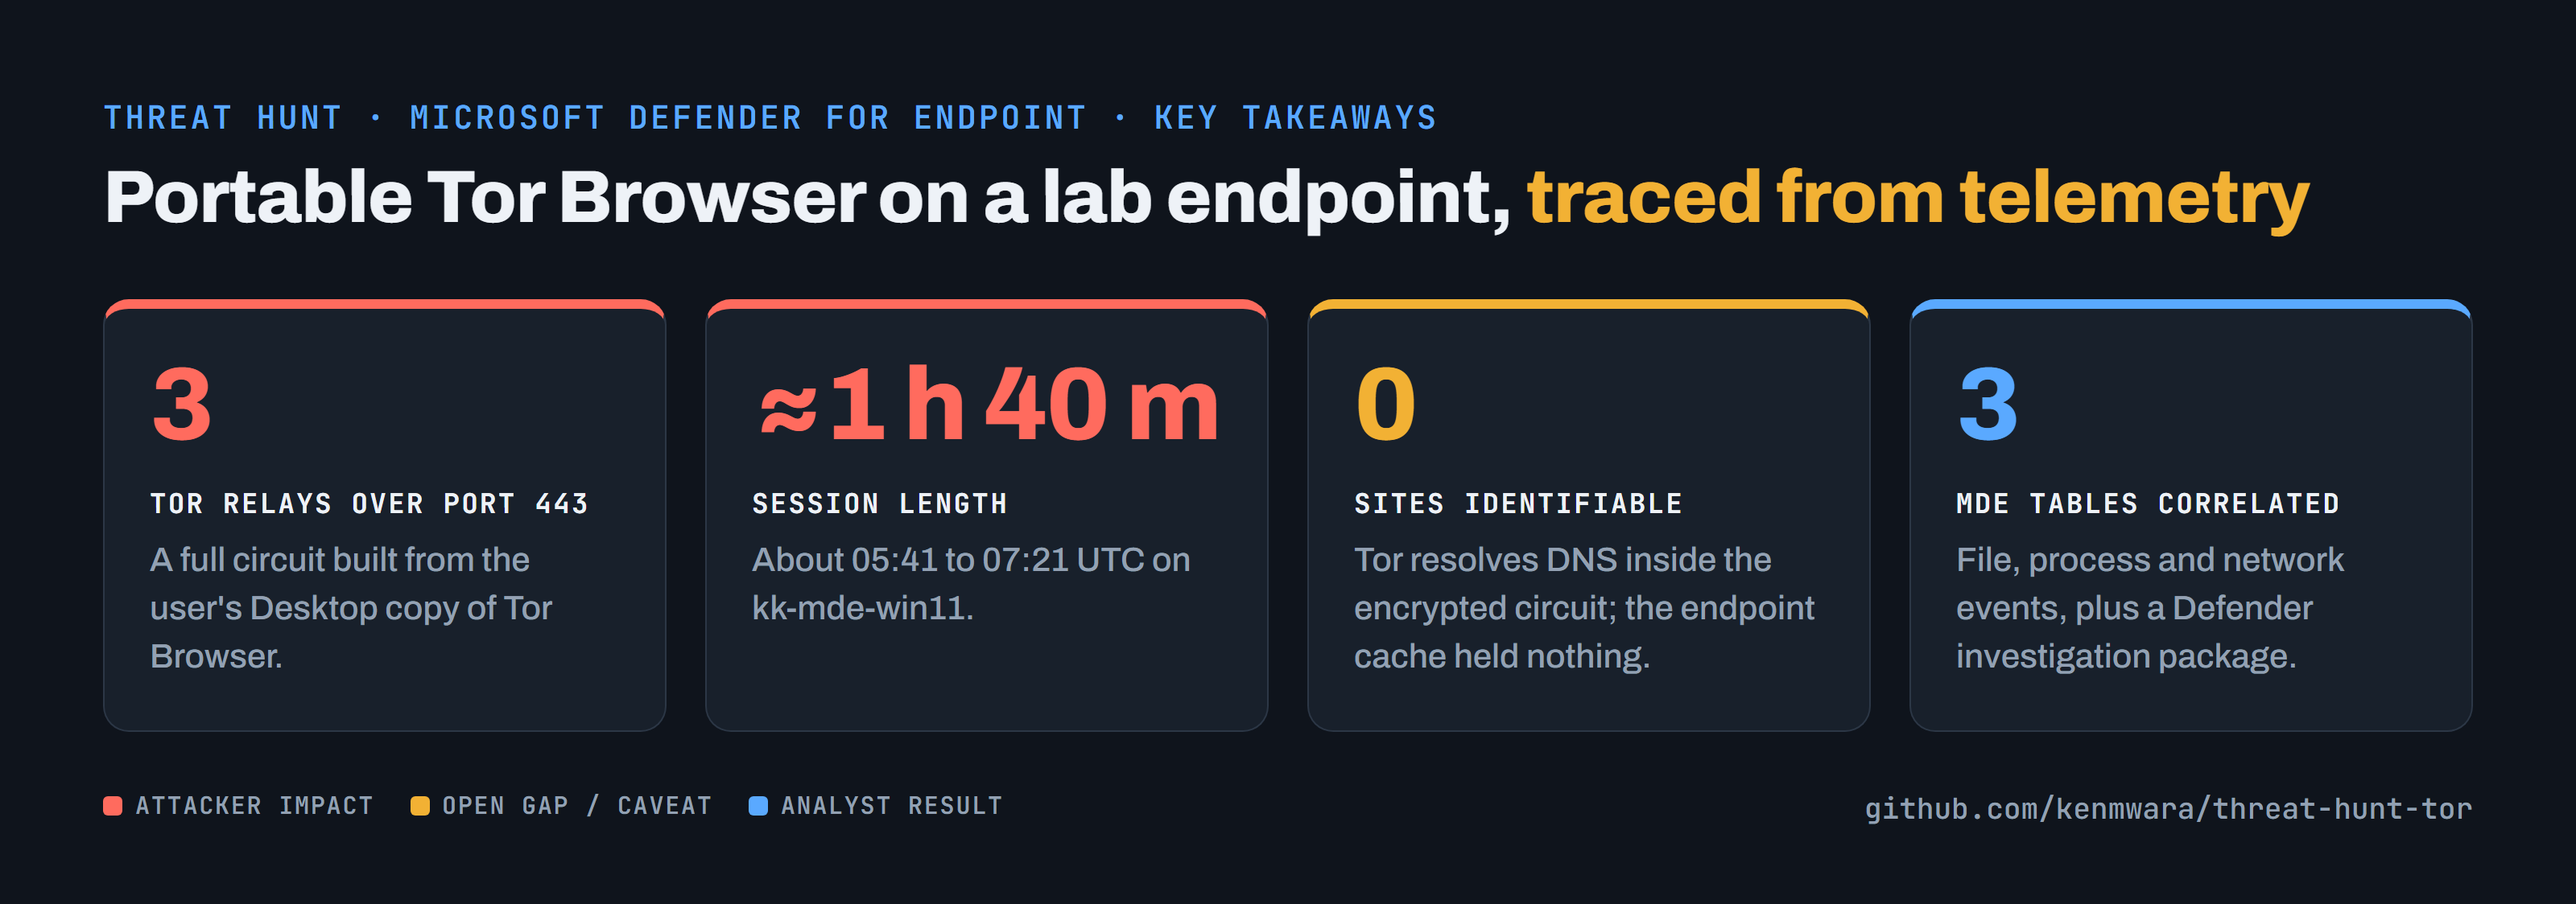
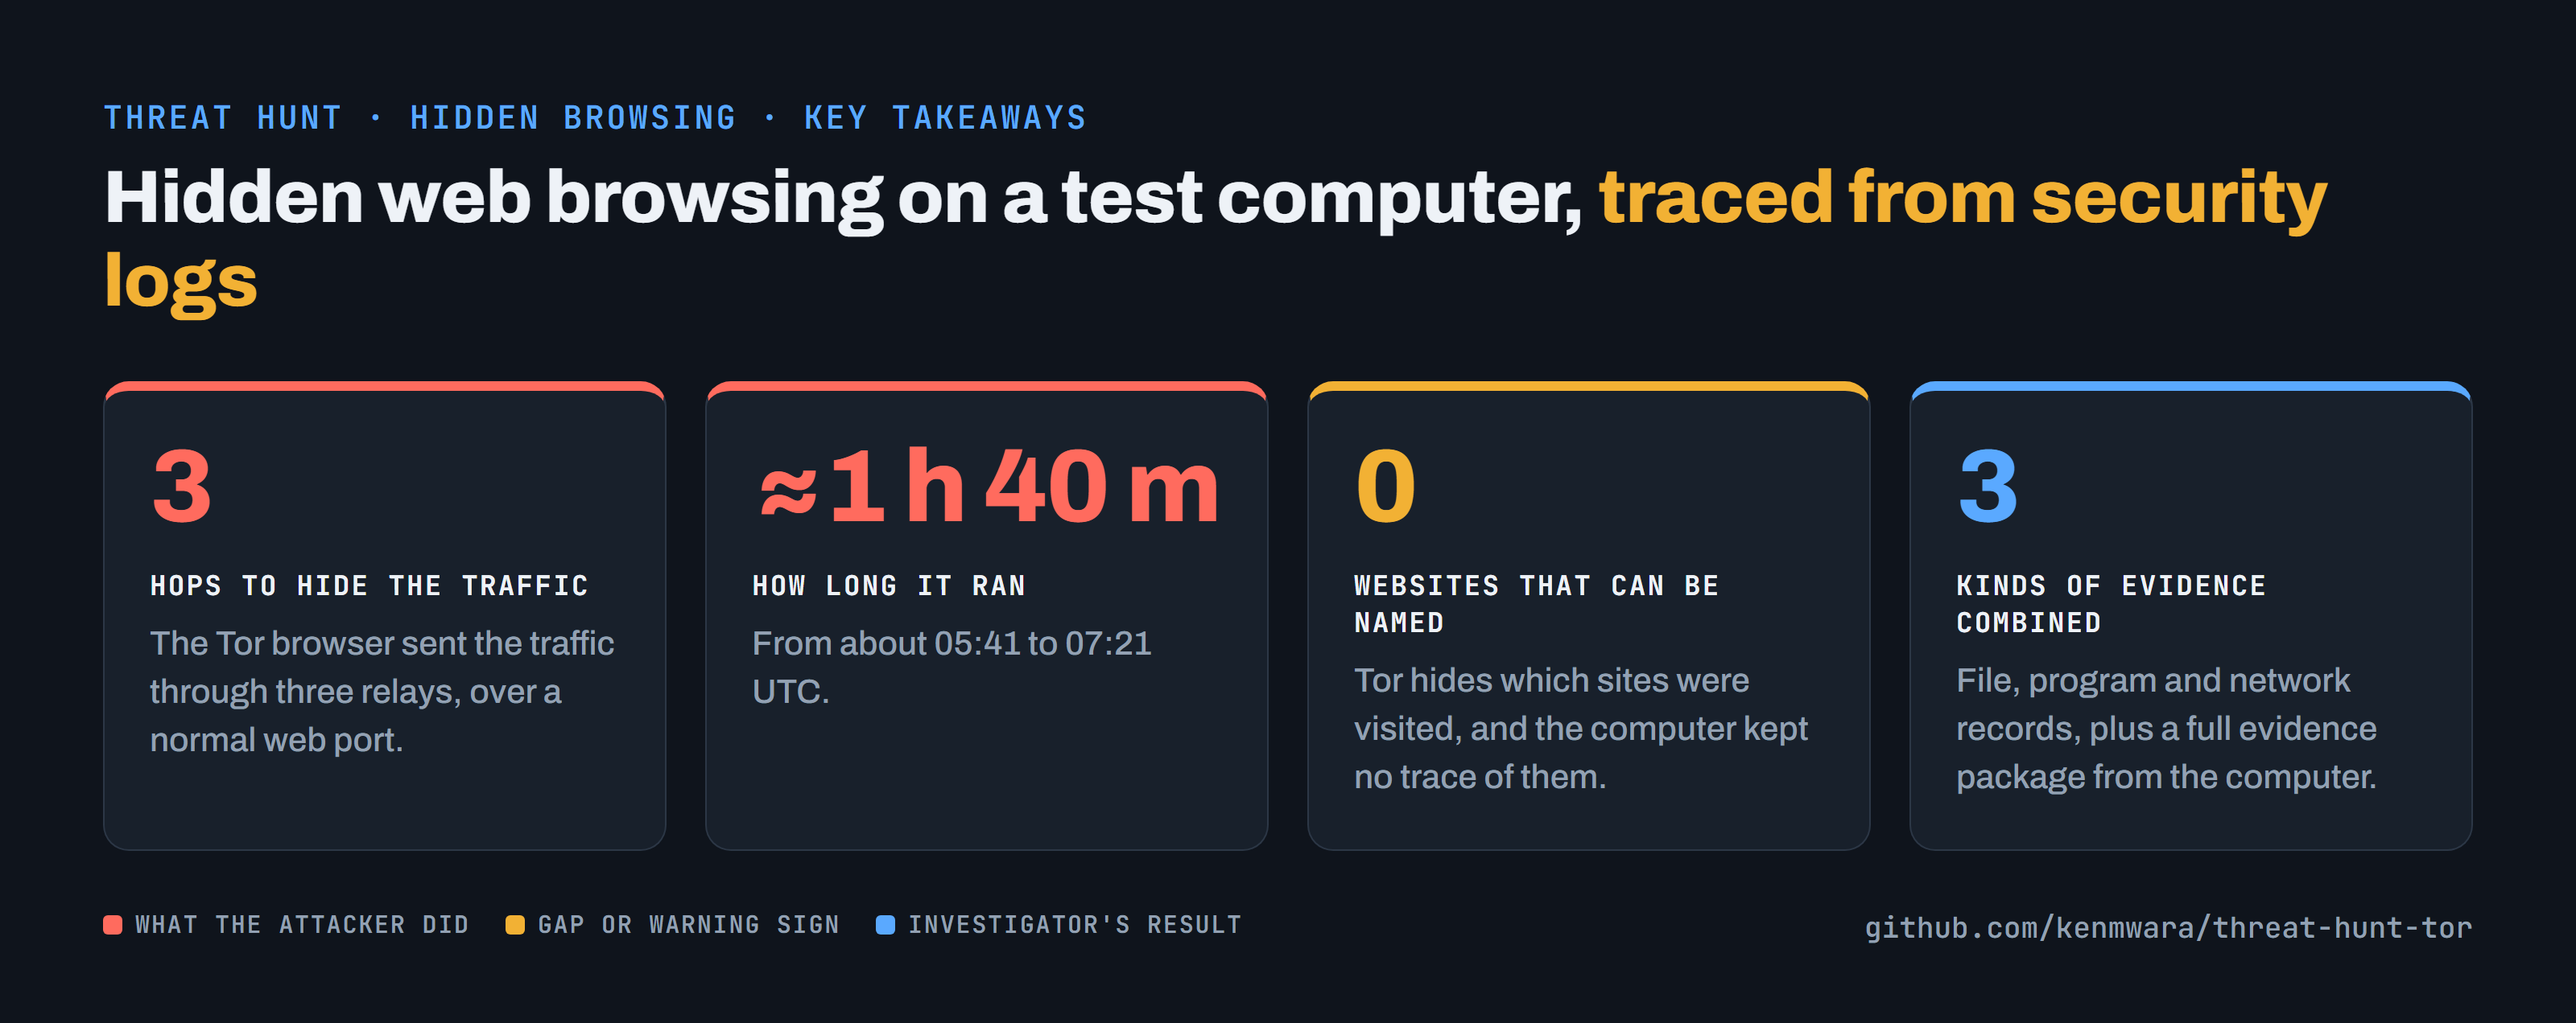
docs: diagrams and scorecards rewritten in plain English

diff --git a/README.md b/README.md
@@ -8,7 +8,7 @@ investigation package using the same process as a production endpoint investigat
 
 ## Key takeaways
 
-<img src="images/scorecard.png" width="100%" alt="Key takeaways. Portable Tor Browser on a lab endpoint, traced from telemetry. 3: Tor relays over port 443. A full circuit built from the user's Desktop copy of Tor Browser. ≈1 h 40 m: Session length. About 05:41 to 07:21 UTC on kk-mde-win11. 0: Sites identifiable. Tor resolves DNS inside the encrypted circuit; the endpoint cache held nothing. 3: MDE tables correlated. File, process and network events, plus a Defender investigation package.">
+<img src="images/scorecard.png" width="100%" alt="Key takeaways. Hidden web browsing on a test computer, traced from security logs. 3: Hops to hide the traffic. The Tor browser sent the traffic through three relays, over a normal web port. ≈1 h 40 m: How long it ran. From about 05:41 to 07:21 UTC. 0: Websites that can be named. Tor hides which sites were visited, and the computer kept no trace of them. 3: Kinds of evidence combined. File, program and network records, plus a full evidence package from the computer.">
 
 ## Executive summary
 
